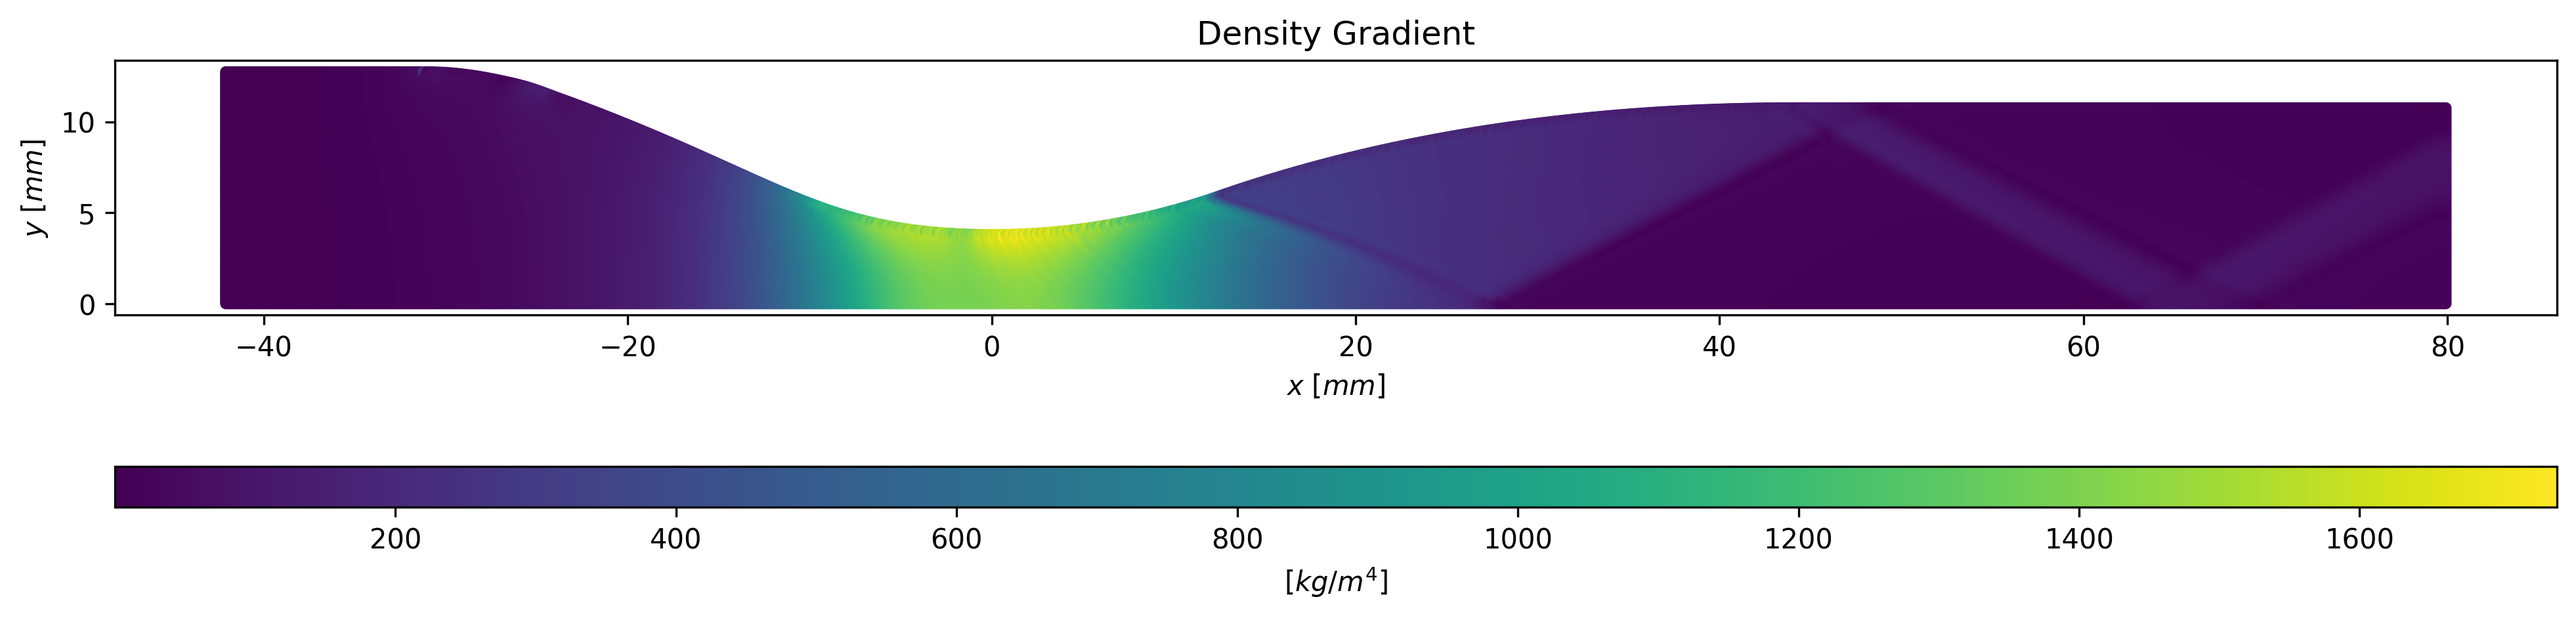
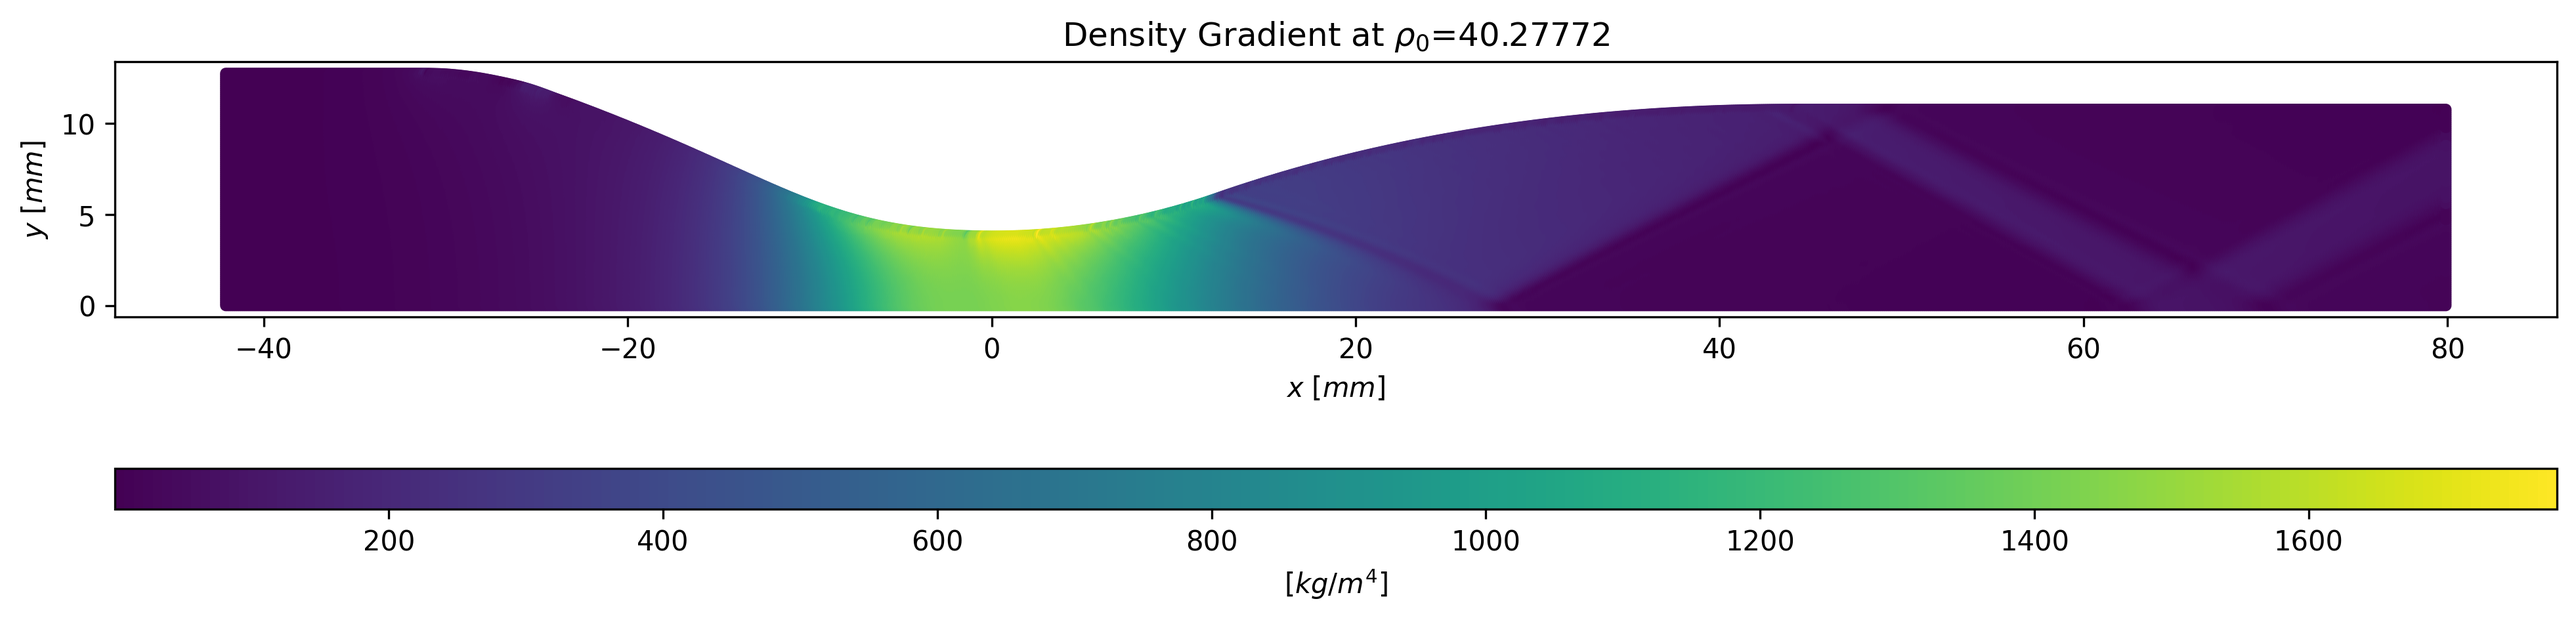
cfd plotting

diff --git a/d02_cfd_comparisons.py b/d02_cfd_comparisons.py
@@ -100,11 +100,10 @@ def get_cfd_values_shifted(path, scale=1000, n_bins=500):
 
 u = np.load("u_HS.npy")
 v = np.load("v_HS.npy") # V is upwards, U is rightwards
-mask = cv.imread("Correlable_pics/BOS_12_11_ref_masked.tif", cv.IMREAD_GRAYSCALE)
 
 # x, y, density, density_prime = get_cfd_values("Wavelet_noise_experiments/220/BOS_12_11_1/flow_MUSCL.vtu")
 
-x, y, density, density_prime = get_cfd_values_shifted("Wavelet_noise_experiments/220/BOS_12_11_1/flow_MUSCL.vtu")
+x, y, density, density_prime = get_cfd_values_shifted("Wavelet_noise_experiments/252/BOS_12_11_1/flow_MUSCL.vtu")
 
 new_x, line = get_straight_values(x, y, density_prime)
 
@@ -126,13 +125,13 @@ sc = ax.scatter(x, y, c=density, s=10)
 
 ax.set_xlabel(r"$x$ [$mm$]")
 ax.set_ylabel(r"$y$ [$mm$]")
-ax.set_title("Density")
+ax.set_title("Density at " + fr'$\rho_0$={round(rho0[0], 5)}')
 ax.set_aspect('equal', adjustable='box')
 
 cbar = fig.colorbar(sc, ax=ax, orientation='horizontal', pad=0.25, fraction=0.1, aspect=60)
 cbar.set_label(r"[$kg/m^3$]")
 
-fig.savefig("Density.png", dpi=300, bbox_inches="tight")
+fig.savefig("FINAL PLOTS/Density Gradients/CFD-density_BOS_12_11_1.png", dpi=300, bbox_inches="tight")
 plt.show()
 plt.close(fig)
 
@@ -142,13 +141,13 @@ sc = ax.scatter(x, y, c=density_prime, s=10)
 
 ax.set_xlabel(r"$x$ [$mm$]")
 ax.set_ylabel(r"$y$ [$mm$]")
-ax.set_title("Density Gradient")
+ax.set_title("Density Gradient at " + fr'$\rho_0$={round(rho0[0], 5)}')
 ax.set_aspect('equal', adjustable='box')
 
 cbar = fig.colorbar(sc, ax=ax, orientation='horizontal', pad=0.25, fraction=0.1, aspect=60)
 cbar.set_label(r"[$kg/m^4$]")
 
-fig.savefig("FINAL PLOTS/Density Gradients/CFD-densitygrad_config1.png", dpi=300, bbox_inches="tight")
+fig.savefig("FINAL PLOTS/Density Gradients/CFD-densitygrad_BOS_12_11_1.png", dpi=300, bbox_inches="tight")
 plt.show()
 plt.close(fig)
 
@@ -158,8 +157,8 @@ plt.close(fig)
 plt.plot(new_x, (np.array(line)/rho0[0]), label=fr'$\rho_0$={round(rho0[0], 5)}')
 plt.xlabel(r'x')
 plt.ylabel(r'$\frac{d\rho}{dx}$')
-plt.title(r'$\frac{d\rho}{dx}$ vs x')
+plt.title(r'$\frac{d\rho}{dx}$ vs x at $y=0$')
 plt.legend()
 plt.grid(True)
-plt.savefig("FINAL PLOTS/Midline Density Gradient/CFD-densitygrad_y0.png", dpi=300)
+plt.savefig("FINAL PLOTS/Midline Density Gradient/CFD-densitygrad_y0_BOS_12_11_1.png", dpi=300)
 plt.show()
